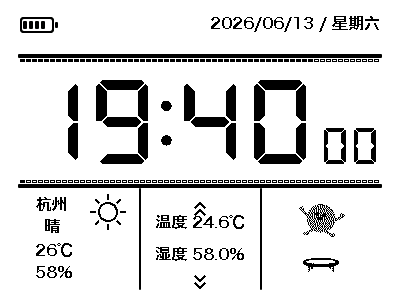
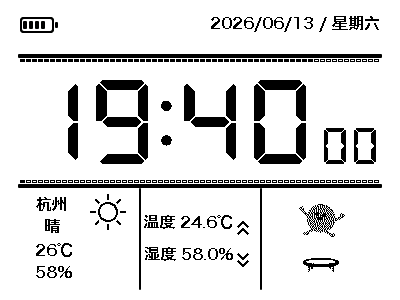
v1.0.3 调整温湿度趋势箭头位置

Changed region(s): [[0.36, 0.66, 0.63, 0.78], [0.36, 0.81, 0.63, 0.9], [0.48, 0.9, 0.51, 0.96]]

diff --git a/RLCD_CLOCK/main/main.cpp b/RLCD_CLOCK/main/main.cpp
@@ -44,7 +44,7 @@ LV_FONT_DECLARE(qweather_icons_36);
 LV_FONT_DECLARE(zh_font_16);
 
 static const char *TAG = "WeatherClock";
-static const char *APP_VERSION = "v1.0.2";
+static const char *APP_VERSION = "v1.0.3";
 
 static constexpr int kDisplayWidth = 400;
 static constexpr int kDisplayHeight = 300;
@@ -1186,8 +1186,8 @@ static void build_clock_ui()
     lv_obj_set_style_text_align(g_weather_temp_label, LV_TEXT_ALIGN_CENTER, LV_PART_MAIN);
     lv_obj_set_style_text_align(g_weather_humi_label, LV_TEXT_ALIGN_CENTER, LV_PART_MAIN);
 
-    g_temp_label = make_label(screen, 152, 214, 96, 28, "温度 --.-℃");
-    g_humi_label = make_label(screen, 152, 246, 96, 28, "湿度 --.-%");
+    g_temp_label = make_label(screen, 144, 214, 88, 28, "温度 --.-℃");
+    g_humi_label = make_label(screen, 144, 246, 88, 28, "湿度 --.-%");
     remember_lower_panel_object(g_temp_label);
     remember_lower_panel_object(g_humi_label);
     lv_obj_set_style_text_align(g_temp_label, LV_TEXT_ALIGN_CENTER, LV_PART_MAIN);
@@ -1200,7 +1200,7 @@ static void build_clock_ui()
     }
     g_temp_trend_canvas = lv_canvas_create(screen);
     lv_obj_clear_flag(g_temp_trend_canvas, LV_OBJ_FLAG_SCROLLABLE);
-    lv_obj_set_pos(g_temp_trend_canvas, 193, 202);
+    lv_obj_set_pos(g_temp_trend_canvas, 236, 221);
     lv_obj_set_size(g_temp_trend_canvas, TREND_ICON_WIDTH, TREND_ICON_HEIGHT);
     lv_obj_set_style_border_width(g_temp_trend_canvas, 0, LV_PART_MAIN);
     lv_obj_set_style_pad_all(g_temp_trend_canvas, 0, LV_PART_MAIN);
@@ -1214,7 +1214,7 @@ static void build_clock_ui()
     }
     g_humi_trend_canvas = lv_canvas_create(screen);
     lv_obj_clear_flag(g_humi_trend_canvas, LV_OBJ_FLAG_SCROLLABLE);
-    lv_obj_set_pos(g_humi_trend_canvas, 193, 275);
+    lv_obj_set_pos(g_humi_trend_canvas, 236, 253);
     lv_obj_set_size(g_humi_trend_canvas, TREND_ICON_WIDTH, TREND_ICON_HEIGHT);
     lv_obj_set_style_border_width(g_humi_trend_canvas, 0, LV_PART_MAIN);
     lv_obj_set_style_pad_all(g_humi_trend_canvas, 0, LV_PART_MAIN);

diff --git a/RLCD_CLOCK/simulator/main.cpp b/RLCD_CLOCK/simulator/main.cpp
@@ -18,7 +18,7 @@ LV_FONT_DECLARE(zh_font_16);
 static constexpr int kDisplayWidth = 400;
 static constexpr int kDisplayHeight = 300;
 static constexpr int kWindowScale = 2;
-static const char *APP_VERSION = "v1.0.2";
+static const char *APP_VERSION = "v1.0.3";
 static constexpr int kTimeCanvasW = 292;
 static constexpr int kTimeCanvasH = 92;
 static constexpr int kSecondCanvasW = 60;
@@ -561,15 +561,15 @@ static void build_clock_ui()
     lv_obj_set_style_text_align(g_weather_temp_label, LV_TEXT_ALIGN_CENTER, LV_PART_MAIN);
     lv_obj_set_style_text_align(g_weather_humi_label, LV_TEXT_ALIGN_CENTER, LV_PART_MAIN);
 
-    g_temp_label = make_label(screen, 152, 214, 96, 28, "温度 --.-℃");
-    g_humi_label = make_label(screen, 152, 246, 96, 28, "湿度 --.-%");
+    g_temp_label = make_label(screen, 144, 214, 88, 28, "温度 --.-℃");
+    g_humi_label = make_label(screen, 144, 246, 88, 28, "湿度 --.-%");
     remember_lower_panel_object(g_temp_label);
     remember_lower_panel_object(g_humi_label);
     lv_obj_set_style_text_align(g_temp_label, LV_TEXT_ALIGN_CENTER, LV_PART_MAIN);
     lv_obj_set_style_text_align(g_humi_label, LV_TEXT_ALIGN_CENTER, LV_PART_MAIN);
     g_temp_trend_canvas = lv_canvas_create(screen);
     lv_obj_clear_flag(g_temp_trend_canvas, LV_OBJ_FLAG_SCROLLABLE);
-    lv_obj_set_pos(g_temp_trend_canvas, 193, 202);
+    lv_obj_set_pos(g_temp_trend_canvas, 236, 221);
     lv_obj_set_size(g_temp_trend_canvas, TREND_ICON_WIDTH, TREND_ICON_HEIGHT);
     lv_obj_set_style_border_width(g_temp_trend_canvas, 0, LV_PART_MAIN);
     lv_obj_set_style_pad_all(g_temp_trend_canvas, 0, LV_PART_MAIN);
@@ -581,7 +581,7 @@ static void build_clock_ui()
     update_trend_icon(g_temp_trend_canvas, 1);
     g_humi_trend_canvas = lv_canvas_create(screen);
     lv_obj_clear_flag(g_humi_trend_canvas, LV_OBJ_FLAG_SCROLLABLE);
-    lv_obj_set_pos(g_humi_trend_canvas, 193, 275);
+    lv_obj_set_pos(g_humi_trend_canvas, 236, 253);
     lv_obj_set_size(g_humi_trend_canvas, TREND_ICON_WIDTH, TREND_ICON_HEIGHT);
     lv_obj_set_style_border_width(g_humi_trend_canvas, 0, LV_PART_MAIN);
     lv_obj_set_style_pad_all(g_humi_trend_canvas, 0, LV_PART_MAIN);

diff --git a/README.md b/README.md
@@ -130,6 +130,7 @@ Release 附件包括：
 
 ## 版本记录
 
+- `v1.0.3`：调整本地温湿度趋势箭头布局，箭头恢复为与温度、湿度数据水平放置；温湿度文字整体略向左收紧，箭头放在数值右侧并与边框保持留白，避免遮挡分割线。
 - `v1.0.2`：修复温湿度在开机后首次整分钟采样前一直显示 `--` 的问题，改为启动后先立即读取一次，后续继续按每分钟整点采样；调整趋势箭头布局，温度箭头放在温度数据上方居中，湿度箭头放在湿度数据下方居中。
 - `v1.0.1`：温湿度采样改为系统时间可信后对齐每分钟整点；保留最近 2 小时本地温湿度数据并按滚动平均值显示独立趋势箭头；天气 API 未返回数据时文案改为“等待数据”；主界面实时天气信息整体左移；整点报时接入裁剪后的短提示音，开启后仅在每天 07:00 到 22:00 的整点播放，并在播放结束后关闭音频输出。
 - `v1.0.0`：首个稳定测试版本；不新增功能，集中收敛逻辑与低风险功耗/性能优化。主界面刷新改为只在显示内容实际变化时强制刷新，减少 10 秒状态检查造成的无效刷屏；网络同步任务改为事件等待和最长 60 秒空闲检查，降低后台轮询唤醒；正式构建配置切换为性能优化并保留 WARN 日志级别；继续保持现有 UI、同步频率、低电量阈值和天气 API 行为不变。